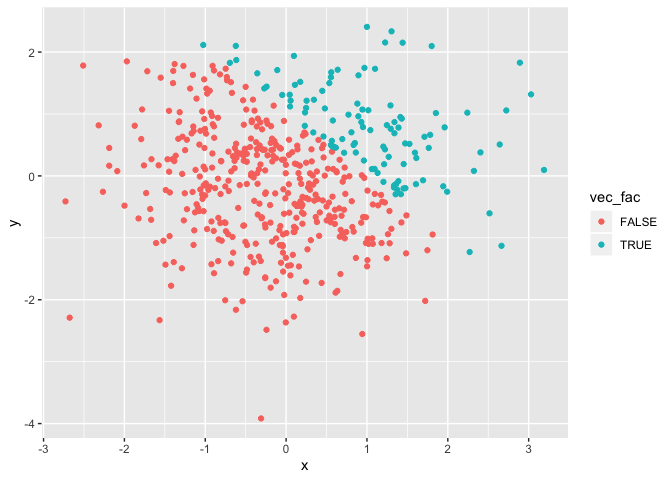
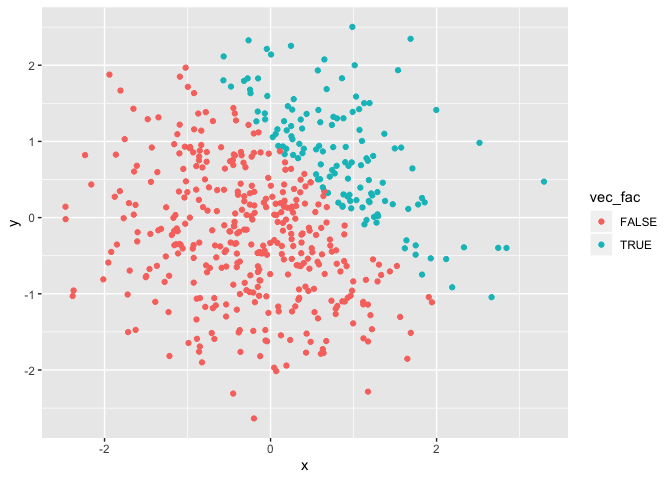
Adding the first scatterplot as a pdf to my project

diff --git a/p8105_hw1_Ec3342.md b/p8105_hw1_Ec3342.md
@@ -40,7 +40,7 @@ first_df = tibble(
 mean(pull(first_df,norm_samp)) 
 ```
 
-    ## [1] -0.006769427
+    ## [1] 0.5291278
 
 ``` r
 mean(pull(first_df,vec_log))
@@ -112,8 +112,8 @@ vector into numeric and then multiplied that with the random
 as.numeric(pull(first_df,vec_log))*(pull(first_df,norm_samp))
 ```
 
-    ## [1] 0.5323767 0.0000000 0.6866156 0.0000000 0.0000000 0.2087342 0.6337436
-    ## [8] 0.3390372
+    ## [1] 0.0000000 2.5881508 2.6429671 0.0000000 0.5583970 0.0230504 1.4216900
+    ## [8] 0.0000000
 
 ``` r
 as.factor(pull(first_df,vec_log))*(pull(first_df,norm_samp))
@@ -128,8 +128,8 @@ as.factor(pull(first_df,vec_log))*(pull(first_df,norm_samp))
 as.numeric(as.factor(pull(first_df,vec_log)))*(pull(first_df,norm_samp))
 ```
 
-    ## [1]  1.0647534 -0.8848699  1.3732312 -1.0810842 -0.4887087  0.4174684
-    ## [7]  1.2674872  0.6780743
+    ## [1] -1.53611882  5.17630155  5.28593425 -1.22138420  1.11679406  0.04610081
+    ## [7]  2.84337993 -0.24372967
 
 # Question 2
 
@@ -157,10 +157,10 @@ vec_fac = as.factor(vec_log2)
 ## Description of the dataframe
 
   - The size of the dataframe is 500 and the number of columns are 5
-  - The mean of x is -0.0086839
-  - The median of x is -0.0348576
-  - The standard deviation of x is 0.996284
-  - The proportion of cases for which x + y \> 1 is 0.216
+  - The mean of x is 0.0218561
+  - The median of x is 0.0440245
+  - The standard deviation of x is 0.9589419
+  - The proportion of cases for which x + y \> 1 is 0.266
 
 ## Scatterplot
 
